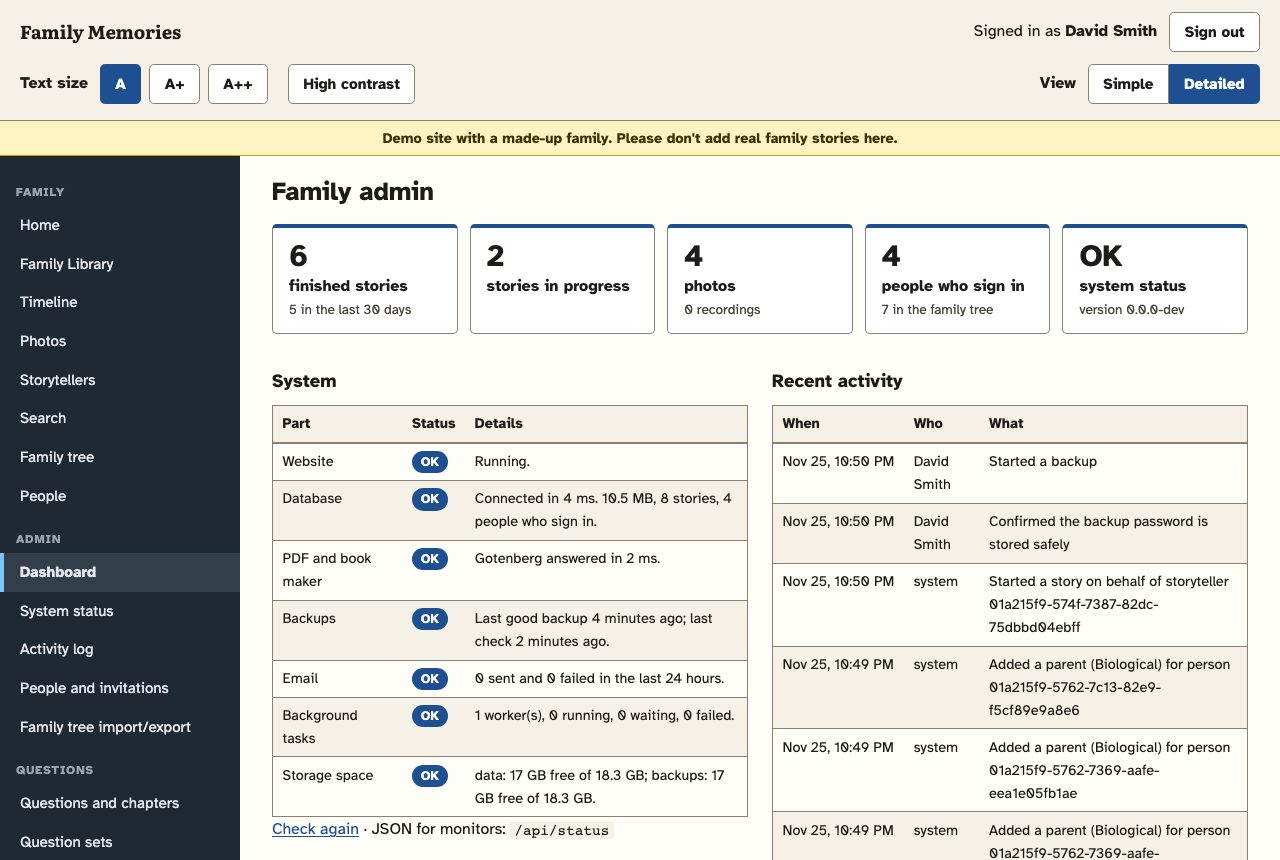
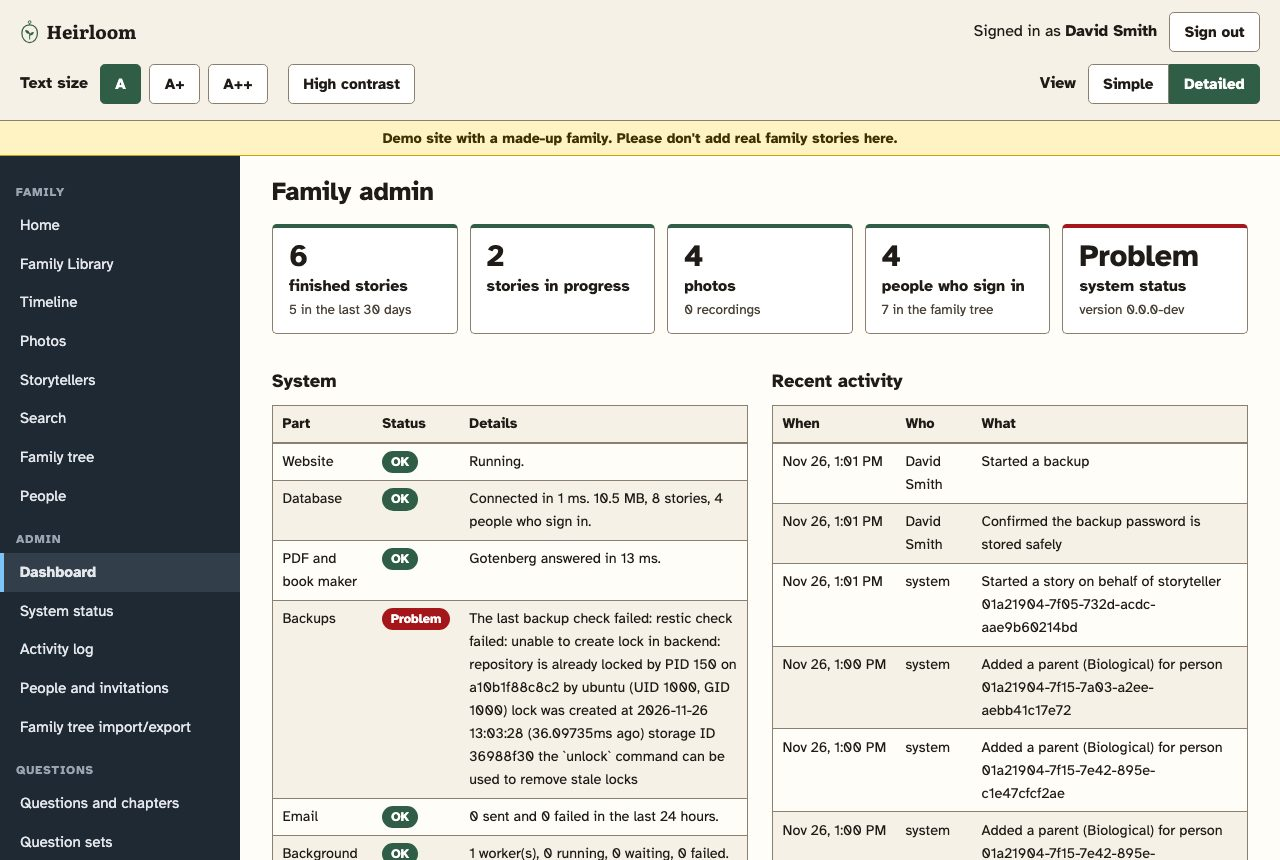
Rename to Heirloom: locket-and-seed mark, heirloom green, "Stories worth handing down."
- APP_NAME defaults to Heirloom; a family's own name gets "Kept with Heirloom" in the footer
- Accent navy -> heirloom green (#2f5d46), brass focus ring; emails, export site and book cover follow
- Mark in header, landing, book cover; favicon.svg/.ico and apple-touch icon
- Image published as ghcr.io/<owner>/heirloom and still as family-memories; releases ship heirloom.yml
- restore.sh and compose.yml accept heirloom.yml/heirloom.env
- Docs, D-072, README screenshots retaken

diff --git a/src/App/wwwroot/css/site.css b/src/App/wwwroot/css/site.css
@@ -1,4 +1,4 @@
-/* Family Memories: base styles.
+/* Heirloom: base styles.
    Primary users are 70–90+, mostly on iPads. Large type, generous spacing,
    big labeled buttons, strong contrast (WCAG 2.2 AA minimum, AAA where easy). */
 
@@ -17,10 +17,10 @@
   --text: #1f1b16;          /* 16.6:1 on --bg */
   --text-muted: #4a4238;    /* 9.4:1 on --bg */
   --border: #8a7f70;        /* 3.9:1 on --bg (non-text UI, ≥3:1) */
-  --accent: #1d4f91;        /* 8.1:1 on white */
-  --accent-hover: #163d70;
+  --accent: #2f5d46;        /* heirloom green: 7.6:1 on white, 6.7:1 on --surface-alt */
+  --accent-hover: #23463a;  /* deep green */
   --accent-text: #ffffff;
-  --focus: #b35c00;
+  --focus: #8c5f16;         /* brass: 5.5:1 on --bg */
   --error: #a4161a;         /* 7.2:1 on --bg */
   --radius: 0.5rem;
   --tap: 3rem;              /* ≥ 48px at the smallest text size */
@@ -135,7 +135,11 @@ main:focus { outline: none; }
   min-height: var(--tap);
   display: inline-flex;
   align-items: center;
+  gap: 0.45rem;
 }
+.mark { width: 1.05em; height: 1.3em; flex: none; color: var(--accent); }
+.kept-with { display: flex; justify-content: center; align-items: center; gap: 0.4rem; color: var(--text-muted); font-size: 0.85rem; padding-block: 0 1.5rem; }
+.kept-with .mark { width: 0.8em; height: 1em; }
 .signed-in {
   display: flex;
   flex-wrap: wrap;
@@ -244,6 +248,7 @@ input[aria-invalid="true"] { border-color: var(--error); border-width: 0.2rem; }
 .small { font-size: 0.85rem; }
 .muted { color: var(--text-muted); }
 .eyebrow { font-weight: 700; color: var(--text-muted); margin-bottom: 0.25rem; }
+.eyebrow-brand { display: flex; align-items: center; gap: 0.45rem; font-family: var(--font-serif); font-size: 1.2rem; color: var(--text); }
 .asked-by { font-style: italic; margin-bottom: 0.25rem; }
 .prompt-question { font-family: var(--font-serif); font-size: 1.6rem; line-height: 1.3; font-weight: 700; margin: 0.25rem 0 1rem; }
 h1.prompt-question { margin-top: 0.5rem; }

diff --git a/src/App/Templates/Export/assets/cover.css b/src/App/Templates/Export/assets/cover.css
@@ -1,12 +1,13 @@
 @font-face { font-family: "Literata"; src: url("literata-latin-700-normal.woff2") format("woff2"); font-weight: 700; }
 @font-face { font-family: "Literata"; src: url("literata-latin-400-italic.woff2") format("woff2"); font-style: italic; }
 html, body { margin: 0; padding: 0; height: 100%; }
-body { font-family: "Literata", Georgia, serif; background: #2b3a4a; color: #fdf9f0; -webkit-print-color-adjust: exact; print-color-adjust: exact; }
+body { font-family: "Literata", Georgia, serif; background: #23463a; color: #fdf9f0; -webkit-print-color-adjust: exact; print-color-adjust: exact; }
 .spread { display: grid; grid-template-columns: calc(var(--trim-w) + var(--bleed)) var(--spine) calc(var(--trim-w) + var(--bleed)); height: 100vh; }
 .back, .front { display: flex; flex-direction: column; align-items: center; justify-content: center; padding: calc(var(--bleed) + 0.6in); gap: 0.3in; box-sizing: border-box; }
 .front h1 { font-size: 34pt; text-align: center; margin: 0; }
 .front .subtitle { font-style: italic; font-size: 15pt; margin: 0; text-align: center; }
 .front img, .back img { max-width: 80%; max-height: 55%; border: 4pt solid #fdf9f0; }
 .back-text { font-size: 12pt; line-height: 1.5; max-width: 80%; text-align: center; }
-.spine { background: #22303d; display: flex; align-items: center; justify-content: center; overflow: hidden; }
+.spine { background: #1b382e; display: flex; align-items: center; justify-content: center; overflow: hidden; }
 .spine-title { writing-mode: vertical-rl; font-size: 11pt; font-weight: 700; margin: 0; white-space: nowrap; }
+.front .mark { width: 0.32in; height: 0.4in; color: #c9a25a; margin-top: 0.2in; }

diff --git a/src/App/Templates/Export/assets/site.css b/src/App/Templates/Export/assets/site.css
@@ -3,7 +3,7 @@
 @font-face { font-family: "Atkinson Hyperlegible"; src: url("fonts/atkinson-hyperlegible-latin-700-normal.woff2") format("woff2"); font-weight: 700; }
 @font-face { font-family: "Literata"; src: url("fonts/literata-latin-400-normal.woff2") format("woff2"); font-weight: 400; }
 @font-face { font-family: "Literata"; src: url("fonts/literata-latin-700-normal.woff2") format("woff2"); font-weight: 700; }
-:root { --bg: #fffdf8; --alt: #f6f1e7; --text: #1f1b16; --muted: #4a4238; --border: #8a7f70; --accent: #1d4f91; }
+:root { --bg: #fffdf8; --alt: #f6f1e7; --text: #1f1b16; --muted: #4a4238; --border: #8a7f70; --accent: #2f5d46; }
 html { font-size: 125%; }
 body { margin: 0; background: var(--bg); color: var(--text); font-family: "Atkinson Hyperlegible", system-ui, sans-serif; line-height: 1.6; }
 .wrap { max-width: 46rem; margin: 0 auto; padding: 0 1rem; }
@@ -15,7 +15,7 @@ body { margin: 0; background: var(--bg); color: var(--text); font-family: "Atkin
 .main-nav a { font-weight: 700; color: var(--text); text-decoration: none; min-height: 3rem; display: inline-flex; align-items: center; border-bottom: 0.2rem solid transparent; }
 .main-nav a[aria-current="page"] { border-bottom-color: var(--accent); color: var(--accent); }
 a { color: var(--accent); }
-:focus-visible { outline: 0.2rem solid #b35c00; outline-offset: 0.2rem; }
+:focus-visible { outline: 0.2rem solid #8c5f16; outline-offset: 0.2rem; }
 h1, h2 { font-family: "Literata", Georgia, serif; line-height: 1.25; }
 .lead { font-size: 1.15rem; }
 .muted, .card-meta { color: var(--muted); }

diff --git a/src/App/Templates/Export/assets/book.css b/src/App/Templates/Export/assets/book.css
@@ -9,7 +9,7 @@ html { font-family: "Literata", Georgia, serif; font-size: 11pt; line-height: 1.
 body.screen { font-size: 12.5pt; }
 h1, h2 { line-height: 1.2; }
 a { color: inherit; text-decoration: none; }
-body.screen a[href^="http"] { color: #1d4f91; text-decoration: underline; word-break: break-all; }
+body.screen a[href^="http"] { color: #2f5d46; text-decoration: underline; word-break: break-all; }
 
 /* Running heads and folios. */
 .book-title { string-set: booktitle content(text); }

diff --git a/src/App/Email/EmailTemplates.cs b/src/App/Email/EmailTemplates.cs
@@ -105,7 +105,7 @@ public sealed class EmailTemplates(IServiceScopeFactory scopes, AppOptions optio
             """,
             """
             <p style="font-size:22px;margin:0 0 16px">Hello {{ name }},</p>
-            {{ for story in stories }}<p style="margin:0 0 12px"><strong>{{ story.readers }}</strong> read your story <a href="{{ story.url }}" style="color:#1d4f91">“{{ story.title }}”</a>.</p>{{ end }}
+            {{ for story in stories }}<p style="margin:0 0 12px"><strong>{{ story.readers }}</strong> read your story <a href="{{ story.url }}" style="color:#2f5d46">“{{ story.title }}”</a>.</p>{{ end }}
             <p style="margin:16px 0">Your stories mean a lot to the family. Thank you for sharing them.</p>
             """),
 
@@ -122,7 +122,7 @@ public sealed class EmailTemplates(IServiceScopeFactory scopes, AppOptions optio
             """
             <p style="font-size:22px;margin:0 0 16px">Hello {{ name }},</p>
             <p style="margin:0 0 16px">Here's what the family shared this week:</p>
-            {{ for story in stories }}<p style="margin:0 0 14px"><a href="{{ story.url }}" style="color:#1d4f91;font-weight:bold;font-size:21px">{{ story.title }}</a><br><span style="color:#4a4238">told by {{ story.teller }}</span></p>{{ end }}
+            {{ for story in stories }}<p style="margin:0 0 14px"><a href="{{ story.url }}" style="color:#2f5d46;font-weight:bold;font-size:21px">{{ story.title }}</a><br><span style="color:#4a4238">told by {{ story.teller }}</span></p>{{ end }}
             """),
 
         [EmailKind.ExportReady] = new(
@@ -278,7 +278,7 @@ public sealed class EmailTemplates(IServiceScopeFactory scopes, AppOptions optio
 
     /// <summary>The single big button. Arguments are already HTML-encoded.</summary>
     private static string Button(string url, string label) =>
-        $"""<p style="margin:0 0 24px"><a href="{url}" style="display:inline-block;background:#1d4f91;color:#ffffff;text-decoration:none;font-family:Arial,sans-serif;font-size:24px;font-weight:bold;padding:18px 32px;border-radius:10px">{label}</a></p>""";
+        $"""<p style="margin:0 0 24px"><a href="{url}" style="display:inline-block;background:#2f5d46;color:#ffffff;text-decoration:none;font-family:Arial,sans-serif;font-size:24px;font-weight:bold;padding:18px 32px;border-radius:10px">{label}</a></p>""";
 
     private string HelpLine() =>
         string.IsNullOrWhiteSpace(options.HelpName) && string.IsNullOrWhiteSpace(options.HelpPhone)
@@ -303,7 +303,7 @@ public sealed class EmailTemplates(IServiceScopeFactory scopes, AppOptions optio
             <html lang="en"><head><meta charset="utf-8"><meta name="viewport" content="width=device-width, initial-scale=1"></head>
             <body style="margin:0;padding:24px;background:#fffdf8;font-family:Georgia,'Times New Roman',serif;color:#1f1b16;font-size:20px;line-height:1.6">
             <div style="max-width:600px;margin:0 auto">
-            <p style="font-family:Arial,sans-serif;font-weight:bold;color:#4a4238;margin:0 0 24px">{WebUtility.HtmlEncode(options.AppName)}</p>
+            <p style="font-family:Georgia,'Times New Roman',serif;font-weight:bold;font-size:22px;color:#2f5d46;margin:0 0 24px">{WebUtility.HtmlEncode(options.AppName)}</p>
             {content}
             {(footer.Length > 0 ? $"""<hr style="border:0;border-top:1px solid #d8d0c2;margin:32px 0 16px"><p style="font-size:16px;color:#4a4238;margin:0">{footer}</p>""" : "")}
             </div></body></html>

diff --git a/src/App.Tests/LoginFlowTests.cs b/src/App.Tests/LoginFlowTests.cs
@@ -44,7 +44,10 @@ public sealed class LoginFlowTests(PostgresFixture postgres) : IAsyncLifetime
     public async Task Signed_out_visitors_see_the_landing_page_and_private_pages_send_them_to_sign_in()
     {
         var landing = WebUtility.HtmlDecode(await NewBrowser().GetStringAsync("/"));
-        Assert.Contains("Every family has stories worth keeping.", landing);
+        Assert.Contains("Stories worth handing down.", landing);
+        Assert.Contains("<title>Heirloom</title>", landing);
+        Assert.Contains("class=\"mark\"", landing);
+        Assert.DoesNotContain("Kept with", landing);   // only when the family has named its own site
         Assert.Contains("href=\"/account/login\"", landing);
         Assert.DoesNotContain("Need help? Call", "");
         foreach (var url in new[] { "/library", "/questions", "/tree", "/people" })
@@ -190,5 +193,34 @@ public sealed class LoginFlowTests(PostgresFixture postgres) : IAsyncLifetime
             new FormUrlEncodedContent([new("Email", AppFactory.AdminEmail)]));
         Assert.Equal(HttpStatusCode.BadRequest, response.StatusCode);
         Assert.Empty(app.Email.Sent);
+    }
+}
+
+/// <summary>Branding: a family's own site name, with "Kept with Heirloom" at the foot, and the icons.</summary>
+public sealed class BrandingTests(PostgresFixture postgres) : IAsyncLifetime
+{
+    private sealed class NamedFactory(PostgresFixture postgres) : AppFactory(postgres)
+    {
+        protected override IDictionary<string, string?> Settings => new Dictionary<string, string?> { ["APP_NAME"] = "The Conlon Stories" };
+    }
+
+    private readonly NamedFactory app = new(postgres);
+    public ValueTask InitializeAsync() => app.InitializeAsync();
+    public ValueTask DisposeAsync() => app.DisposeAsync();
+
+    [Fact]
+    public async Task A_family_named_site_keeps_its_name_and_credits_Heirloom()
+    {
+        var client = app.CreateClient(new WebApplicationFactoryClientOptions { BaseAddress = new Uri("https://localhost") });
+        var landing = WebUtility.HtmlDecode(await client.GetStringAsync("/"));
+        Assert.Contains("<title>The Conlon Stories</title>", landing);
+        Assert.Contains("Kept with Heirloom", landing);
+
+        foreach (var (path, type) in new[] { ("/favicon.svg", "image/svg+xml"), ("/favicon.ico", "image/x-icon"), ("/img/apple-touch-icon.png", "image/png") })
+        {
+            var response = await client.GetAsync(path);
+            Assert.Equal(HttpStatusCode.OK, response.StatusCode);
+            Assert.Equal(type, response.Content.Headers.ContentType?.MediaType);
+        }
     }
 }

diff --git a/src/App/Configuration/AppOptions.cs b/src/App/Configuration/AppOptions.cs
@@ -8,7 +8,13 @@ namespace FamilyMemories.Configuration;
 /// </summary>
 public sealed class AppOptions
 {
-    public string AppName { get; init; } = "Family Memories";
+    /// <summary>The product's own name. A family can name its site anything with APP_NAME; the footer then says "Kept with Heirloom".</summary>
+    public const string ProductName = "Heirloom";
+
+    public string AppName { get; init; } = ProductName;
+
+    /// <summary>True when the family has given its site its own name.</summary>
+    public bool HasOwnName => !string.Equals(AppName, ProductName, StringComparison.OrdinalIgnoreCase);
 
     /// <summary>Absolute public URL (no trailing slash). Used for every link that leaves the app (emails, QR codes).</summary>
     public Uri PublicBaseUrl { get; init; } = new("http://localhost:8095");
@@ -146,7 +152,7 @@ public sealed class AppOptions
 
         return new AppOptions
         {
-            AppName = NonEmpty(c["APP_NAME"]) ?? "Family Memories",
+            AppName = NonEmpty(c["APP_NAME"]) ?? ProductName,
             PublicBaseUrl = new Uri(baseUrl, UriKind.Absolute),
             DataDir = NonEmpty(c["DATA_DIR"]) ?? "/data",
             ConnectionString = NonEmpty(c.GetConnectionString("Default")) ?? BuildConnectionString(c),
@@ -205,7 +211,7 @@ public sealed class AppOptions
                 Username = NonEmpty(c["SMTP_USERNAME"]),
                 Password = NonEmpty(c["SMTP_PASSWORD"]),
                 FromAddress = NonEmpty(c["SMTP_FROM_ADDRESS"]) ?? "memories@localhost",
-                FromName = NonEmpty(c["SMTP_FROM_NAME"]) ?? NonEmpty(c["APP_NAME"]) ?? "Family Memories",
+                FromName = NonEmpty(c["SMTP_FROM_NAME"]) ?? NonEmpty(c["APP_NAME"]) ?? AppOptions.ProductName,
             },
         };
     }
@@ -254,6 +260,6 @@ public sealed class SmtpOptions
     public string? Username { get; init; }
     public string? Password { get; init; }
     public string FromAddress { get; init; } = "memories@localhost";
-    public string FromName { get; init; } = "Family Memories";
+    public string FromName { get; init; } = AppOptions.ProductName;
     public bool IsConfigured => !string.IsNullOrWhiteSpace(Host);
 }

diff --git a/src/App.E2E/EmailTests.cs b/src/App.E2E/EmailTests.cs
@@ -94,7 +94,7 @@ public sealed class LandingTests(PostgresFixture postgres, BrowsersFixture brows
         await using var context = await browsers.NewIPadAsync(app.BaseUrl);
         var page = await context.NewPageAsync();
         await page.GotoAsync("/");
-        await Expect(page.GetByRole(AriaRole.Heading, new() { Name = "Every family has stories worth keeping." })).ToBeVisibleAsync();
+        await Expect(page.GetByRole(AriaRole.Heading, new() { Name = "Stories worth handing down." })).ToBeVisibleAsync();
         await Accessibility.ScreenshotAsync(page, "ipad-landing");
         await Accessibility.AssertAccessibleAsync(page, "landing page");
         await Accessibility.AssertTapTargetsAsync(page);

diff --git a/src/App.Tests/UnitTests.cs b/src/App.Tests/UnitTests.cs
@@ -73,7 +73,8 @@ public sealed class AppOptionsTests
     public void Defaults_are_sensible()
     {
         var options = From();
-        Assert.Equal("Family Memories", options.AppName);
+        Assert.Equal("Heirloom", options.AppName);
+        Assert.False(options.HasOwnName);
         Assert.Equal("/data/keys", options.KeysDir);
         Assert.Equal(TimeSpan.FromDays(14), options.MagicLinkLifetime);
         Assert.Equal(TimeSpan.FromDays(180), options.RememberedDeviceLifetime);

diff --git a/docs/DEPLOY_OMV.md b/docs/DEPLOY_OMV.md
@@ -6,8 +6,8 @@ This uses OMV 7's **Compose** plugin (`openmediavault-compose`). You'll need abo
 
 Use **two different physical disks**: one for the family's data, one for backups. A backup on the same disk doesn't survive that disk failing.
 
-- **Data disk**: create a shared folder, e.g. `appdata`. `DATA_ROOT` will be `/srv/dev-disk-by-uuid-XXXX/appdata/family-memories`.
-- **Backup disk**: create a shared folder, e.g. `backups`. `BACKUP_ROOT` will be `/srv/dev-disk-by-uuid-YYYY/backups/family-memories`.
+- **Data disk**: create a shared folder, e.g. `appdata`. `DATA_ROOT` will be `/srv/dev-disk-by-uuid-XXXX/appdata/heirloom`.
+- **Backup disk**: create a shared folder, e.g. `backups`. `BACKUP_ROOT` will be `/srv/dev-disk-by-uuid-YYYY/backups/heirloom`.
 
 Find your user's ids under **Users → Users** (or `id <user>` over SSH). Most OMV setups use `PUID=1000`, `PGID=100`.
 
@@ -15,8 +15,8 @@ Find your user's ids under **Users → Users** (or `id <user>` over SSH). Most O
 
 1. **Services → Compose → Settings**: set the shared folder where compose files live (e.g. `appdata/compose`).
 2. **Services → Compose → Files → Create**:
-   - **Name:** `family-memories` (any name works; the steps below assume this one).
-   - **File:** paste the contents of `family-memories.yml` from the latest [release](https://github.com/jmconlon2001/heirloom/releases). It pulls `ghcr.io/jmconlon2001/family-memories:<version>`, so no building is needed.
+   - **Name:** `heirloom` (any name works; the steps below assume this one).
+   - **File:** paste the contents of `heirloom.yml` from the latest [release](https://github.com/jmconlon2001/heirloom/releases). It pulls `ghcr.io/jmconlon2001/heirloom:<version>`, so no building is needed.
    - **Environment:** paste `env.example` from the same release and fill it in (each line is explained). At minimum:
 
      ```dotenv
@@ -24,8 +24,8 @@ Find your user's ids under **Users → Users** (or `id <user>` over SSH). Most O
      ADMIN_EMAIL=you@example.com
      POSTGRES_PASSWORD=<openssl rand -base64 32>
      RESTIC_PASSWORD=<openssl rand -base64 32>   # store this in your password manager!
-     DATA_ROOT=/srv/dev-disk-by-uuid-XXXX/appdata/family-memories
-     BACKUP_ROOT=/srv/dev-disk-by-uuid-YYYY/backups/family-memories
+     DATA_ROOT=/srv/dev-disk-by-uuid-XXXX/appdata/heirloom
+     BACKUP_ROOT=/srv/dev-disk-by-uuid-YYYY/backups/heirloom
      PUID=1000
      PGID=100
      SMTP_HOST=smtp.gmail.com   # plus SMTP_USERNAME / SMTP_PASSWORD (a Gmail app password)
@@ -34,8 +34,8 @@ Find your user's ids under **Users → Users** (or `id <user>` over SSH). Most O
 3. If the image is private: SSH in and run `docker login ghcr.io` once, with a GitHub token that has `read:packages`.
 4. **Link the environment file once, over SSH.** The plugin saves the environment as `<name>.env`, but Compose fills in `DATA_ROOT` and the other values in the file from `.env`:
    ```sh
-   cd /<compose shared folder>/family-memories
-   ln -sf family-memories.env .env
+   cd /<compose shared folder>/heirloom
+   ln -sf heirloom.env .env
    ```
    Without the link, **Up** fails with "required variable DATA_ROOT is missing a value".
 5. Select the file and press **Up**. The first start takes a minute: it creates the database and seeds the 52 questions.
@@ -57,10 +57,12 @@ Open `PUBLIC_BASE_URL`, tap **Sign in**, type `ADMIN_EMAIL`, and tap the link in
 
 ## Upgrading
 
-1. Download the new release's `family-memories.yml` and paste it over the old one, or just change `APP_VERSION` in the environment.
+1. Download the new release's `heirloom.yml` and paste it over the old one, or just change `APP_VERSION` in the environment.
 2. Press **Pull**, then **Up**.
 
-**Upgrading to v0.9.0 or later:** paste in the new `family-memories.yml`; changing `APP_VERSION` alone isn't enough. It fixes speech-to-text, which couldn't download its model before. Keep the `.env` link. If your old file had the folders written into it, add `DATA_ROOT` and `BACKUP_ROOT` to the environment (run `docker inspect <old app container>` to see the folders it used). Stop the old containers before pressing **Up**, because the new file names its containers differently.
+**Upgrading to v0.9.0 or later:** paste in the new `heirloom.yml`; changing `APP_VERSION` alone isn't enough. It fixes speech-to-text, which couldn't download its model before. Keep the `.env` link. If your old file had the folders written into it, add `DATA_ROOT` and `BACKUP_ROOT` to the environment (run `docker inspect <old app container>` to see the folders it used). Stop the old containers before pressing **Up**, because the new file names its containers differently.
+
+**The rename to Heirloom (v0.10.0):** nothing has to change. New releases ship `heirloom.yml`; `family-memories.yml` is the same file under the old name, and the image is published under both names. A stack named `family-memories` keeps its name, folders and environment.
 
 The app takes a full backup automatically before it changes the database.
 

diff --git a/README.md b/README.md
@@ -1,11 +1,11 @@
-# Heirloom: Family Memories
+# Heirloom
 
-**Every family has stories worth keeping.** Family Memories gently asks the people you love one question a week about their life. They answer by typing, by talking, or with a photo, and the family ends up with a library of their stories, a family tree, a website that works from a USB stick, and a real printed book.
+**Stories worth handing down.** Heirloom gently asks the people you love one question a week about their life. They answer by typing, by talking, or with a photo, and the family ends up with a library of their stories, a family tree, a website that works from a USB stick, and a real printed book.
 
 It's self-hosted (your server, your data) and designed first for storytellers aged 70 to 90+, most of them on an iPad.
 
 <p align="center">
-  <img src="docs/images/landing.jpg" alt="The landing page: Every family has stories worth keeping" width="32%">
+  <img src="docs/images/landing.jpg" alt="The landing page: Stories worth handing down" width="32%">
   <img src="docs/images/answer.jpg" alt="Grandma Rose answering her granddaughter's follow-up question" width="32%">
   <img src="docs/images/story.jpg" alt="Reading Grandma Rose's story about the county fair, with an old photo" width="32%">
 </p>
@@ -75,13 +75,13 @@ Backups at a glance, people and invitations, and exports to a website, a PDF and
 Every release publishes a multi-architecture image (amd64 for an Intel N100 server, arm64 too) and a ready-to-use compose file. See **[Releases](https://github.com/jmconlon2001/heirloom/releases)**.
 
 ```sh
-mkdir -p /appdata/family-memories && cd /appdata/family-memories
-# From the latest release: compose.yml (or family-memories.yml for OpenMediaVault) and env.example
+mkdir -p /appdata/heirloom && cd /appdata/heirloom
+# From the latest release: compose.yml (or heirloom.yml for OpenMediaVault) and env.example
 cp env.example .env        # fill it in: PUBLIC_BASE_URL, ADMIN_EMAIL, POSTGRES_PASSWORD, SMTP_*, RESTIC_PASSWORD, DATA_ROOT, BACKUP_ROOT
 docker compose pull && docker compose up -d
 ```
 
-Then open `PUBLIC_BASE_URL`, type the `ADMIN_EMAIL` address, and tap the link in the email. The repository is private, so the image is too: run `docker login ghcr.io` with a GitHub token that has `read:packages` (or make the package public under GitHub → Packages).
+Then open `PUBLIC_BASE_URL`, type the `ADMIN_EMAIL` address, and tap the link in the email. The image is also published under its old name, `ghcr.io/jmconlon2001/family-memories`, so compose files from before the rename keep working.
 
 - The app speaks plain HTTP on `APP_PORT` (default 8095) and expects a reverse proxy for HTTPS: **[docs/CADDY.md](docs/CADDY.md)**.
 - OpenMediaVault: **[docs/DEPLOY_OMV.md](docs/DEPLOY_OMV.md)**. Proxmox (LXC or VM): **[docs/DEPLOY_PVE.md](docs/DEPLOY_PVE.md)**.

diff --git a/docs/DEPLOY_PVE.md b/docs/DEPLOY_PVE.md
@@ -13,7 +13,7 @@ Either way, the family's data lives on a ZFS dataset (or any storage), and backu
 ```sh
 # On the Proxmox host
 pct create 120 local:vztmpl/debian-13-standard_13.*_amd64.tar.zst \
-  --hostname family-memories --memory 3072 --cores 2 --rootfs local-zfs:16 \
+  --hostname heirloom --memory 3072 --cores 2 --rootfs local-zfs:16 \
   --net0 name=eth0,bridge=vmbr0,ip=dhcp --unprivileged 1 --features nesting=1,keyctl=1 --onboot 1
 ```
 
@@ -22,16 +22,16 @@ pct create 120 local:vztmpl/debian-13-standard_13.*_amd64.tar.zst \
 ### Data on ZFS, bind-mounted in
 
 ```sh
-zfs create rpool/family-memories            # the family's data (snapshot it too, if you like)
-zfs create backup-pool/family-memories      # on a DIFFERENT disk or pool
-pct set 120 -mp0 /rpool/family-memories,mp=/data/family-memories
-pct set 120 -mp1 /backup-pool/family-memories,mp=/backups/family-memories
+zfs create rpool/heirloom            # the family's data (snapshot it too, if you like)
+zfs create backup-pool/heirloom      # on a DIFFERENT disk or pool
+pct set 120 -mp0 /rpool/heirloom,mp=/data/heirloom
+pct set 120 -mp1 /backup-pool/heirloom,mp=/backups/heirloom
 ```
 
 **UID mapping (important):** in an unprivileged container, user 1000 inside is user **101000** on the host. Give that host user the folders:
 
 ```sh
-chown -R 101000:101000 /rpool/family-memories /backup-pool/family-memories
+chown -R 101000:101000 /rpool/heirloom /backup-pool/heirloom
 ```
 
 Inside the container, use `PUID=1000`, `PGID=1000`. PostgreSQL's own folder is fixed up by the database container on first start.
@@ -42,10 +42,10 @@ Inside the container, use `PUID=1000`, `PGID=1000`. PostgreSQL's own folder is f
 pct enter 120
 apt update && apt install -y ca-certificates curl
 curl -fsSL https://get.docker.com | sh
-mkdir -p /opt/family-memories && cd /opt/family-memories
+mkdir -p /opt/heirloom && cd /opt/heirloom
 # Download compose.yml and env.example from the latest GitHub release into this folder.
 cp env.example .env && nano .env
-#   DATA_ROOT=/data/family-memories   BACKUP_ROOT=/backups/family-memories   PUID=1000 PGID=1000 …
+#   DATA_ROOT=/data/heirloom   BACKUP_ROOT=/backups/heirloom   PUID=1000 PGID=1000 …
 docker login ghcr.io          # if the image is private (token with read:packages)
 docker compose up -d
 curl -s localhost:8095/readyz   # Healthy
